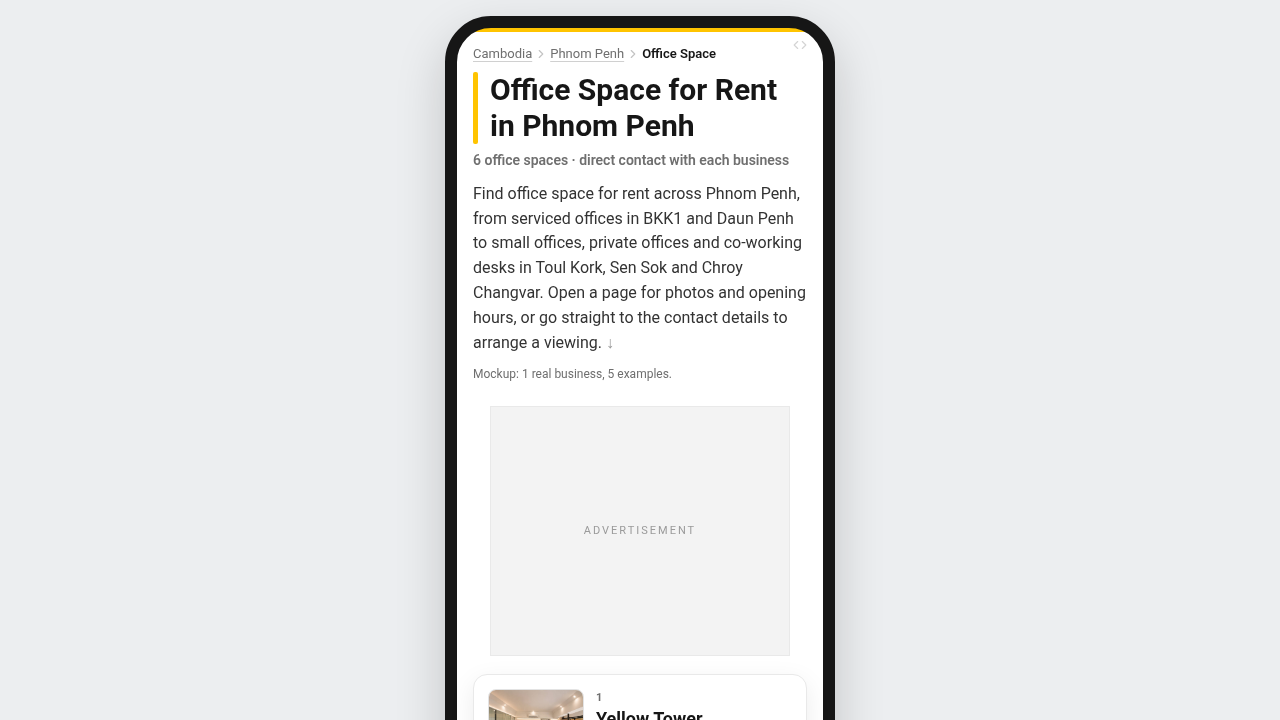
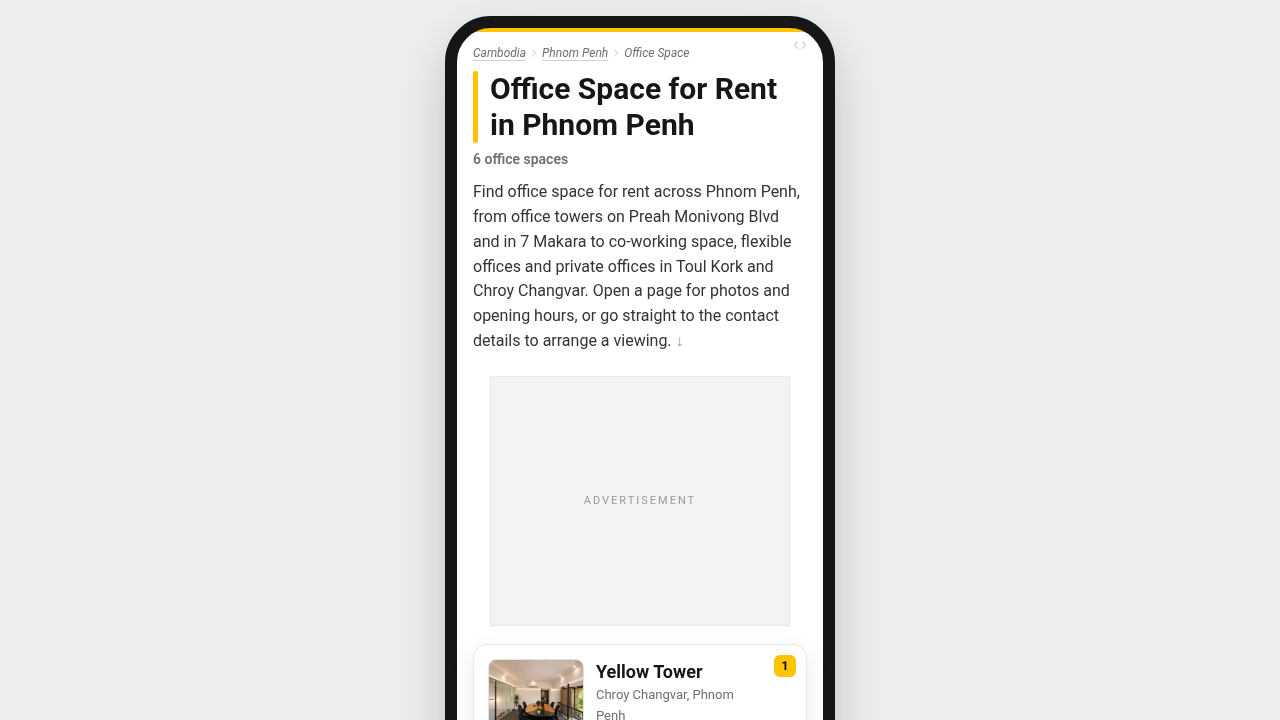
Publish mockups 2026-10-07 00:43 WITA

diff --git a/phnom-penh-office-rental-vertical-page.html b/phnom-penh-office-rental-vertical-page.html
@@ -5,7 +5,7 @@
 <meta charset="utf-8">
 <meta name="viewport" content="width=device-width, initial-scale=1">
 <title>Phnom Penh Office Space &amp; Serviced Offices for Rent | contact.page</title>
-<meta name="description" content="Compare office space for rent in Phnom Penh: serviced offices, private offices and co-working in BKK1, Daun Penh, Toul Kork and Chroy Changvar, with direct contact details for each business.">
+<meta name="description" content="Compare office space for rent in Phnom Penh: office towers, flexible and semi-serviced offices and co-working in 7 Makara, Toul Kork, Chroy Changvar and on Preah Monivong Blvd.">
 <script type="application/ld+json">
 {"@context":"https://schema.org","@graph":[
 {"@type":"BreadcrumbList","itemListElement":[
@@ -14,11 +14,11 @@
  {"@type":"ListItem","position":3,"name":"Office Space"}]},
 {"@type":"ItemList","name":"Office Space for Rent in Phnom Penh","numberOfItems":6,"itemListOrder":"https://schema.org/ItemListOrderDescending","itemListElement":[
  {"@type":"ListItem","position":1,"name":"Yellow Tower","url":"https://kh34363.contact.page/"},
- {"@type":"ListItem","position":2,"name":"Example Riverside Offices"},
- {"@type":"ListItem","position":3,"name":"Example BKK1 Business Suites"},
- {"@type":"ListItem","position":4,"name":"Example Toul Kork Co-working"},
- {"@type":"ListItem","position":5,"name":"Example Sen Sok Office Park"},
- {"@type":"ListItem","position":6,"name":"Example Peninsula Studios"}]}
+ {"@type":"ListItem","position":2,"name":"The Helix Office","url":"https://kh81111-the-helix-office.contact.page/"},
+ {"@type":"ListItem","position":3,"name":"City Tower","url":"https://kh62909.contact.page/"},
+ {"@type":"ListItem","position":4,"name":"Emerald HUB","url":"https://kh78259-emerald-hub.contact.page/"},
+ {"@type":"ListItem","position":5,"name":"Phnom Penh Center","url":"https://kh18308.contact.page/"},
+ {"@type":"ListItem","position":6,"name":"Regus Business Centre (Cambodia) Co., Ltd.","url":"https://kh50588.contact.page/"}]}
 ]}
 </script>
 <style>
@@ -161,22 +161,24 @@ span.chip:hover{background:#f1f2f3}
 
 
 .vlede{color:#333;margin:10px 0 0}
-.crumbs{margin:16px 0 8px;font-size:13px;color:var(--grey)}
+.crumbs{margin:16px 0 8px;font-size:12px;font-style:italic;font-weight:400;color:var(--grey)}
 .crumbs ol{list-style:none;margin:0;padding:0;display:flex;flex-wrap:wrap;align-items:center;gap:2px}
 .crumbs li{display:inline-flex;align-items:center;gap:2px}
 .crumbs a{color:var(--grey);text-decoration:underline;text-decoration-color:#d0d0d0;text-underline-offset:3px}
 .crumbs a:hover{color:var(--ink)}
-.crumbs svg{color:#c4c4c4}
-.crumbs [aria-current]{color:var(--ink);font-weight:600}
+.crumbs svg{color:#c4c4c4;width:12px;height:12px}
+.crumbs [aria-current]{color:var(--grey);font-weight:400}
 .vsub{font-size:14px;color:var(--grey);margin:6px 0 0;font-weight:600}
 .vmeta{font-size:12px;color:var(--grey);margin:10px 0 0}
 .cards{list-style:none;margin:18px 0 0;padding:0;display:grid;gap:14px}
-.card{border:1px solid var(--line);border-radius:14px;padding:14px;background:#fff}
+.card{position:relative;border:1px solid var(--line);border-radius:14px;padding:14px;background:#fff}
 .card.first{box-shadow:0 8px 26px rgba(0,0,0,.08)}
 .card .top{display:grid;grid-template-columns:96px 1fr;gap:12px;align-items:start}
 .card .thumb{width:96px;aspect-ratio:4/3;object-fit:cover;border:1px solid #e3e3e3;border-radius:8px;display:block}
 .card .thumb.ph{padding:6px;font-size:10px;aspect-ratio:4/3}
-.card .rank{font-size:11px;color:var(--grey);text-transform:uppercase;letter-spacing:1.2px;font-weight:700;margin:0}
+.card .rankb{position:absolute;top:10px;right:10px;min-width:22px;height:22px;padding:0 6px;border-radius:6px;background:var(--yellow);color:var(--ink);font-size:12px;font-weight:800;line-height:22px;text-align:center}
+.card .top>div{padding-right:26px}
+.card .thumb.ph{display:flex;align-items:center;justify-content:center;color:#b9b9b9;padding:0}
 .card h2{font-size:18px;line-height:1.25;margin:2px 0 2px}
 .card h2 a{text-decoration:none}
 .card h2 a:hover{text-decoration:underline}
@@ -209,9 +211,8 @@ span.chip:hover{background:#f1f2f3}
 
 
 <div class="h1row"><div class="h1bar" aria-hidden="true"></div><h1>Office Space for Rent in Phnom Penh</h1></div>
-<p class="vsub">6 office spaces &middot; direct contact with each business</p>
-<p class="vlede">Find office space for rent across Phnom Penh, from serviced offices in BKK1 and Daun Penh to small offices, private offices and co-working desks in Toul Kork, Sen Sok and Chroy Changvar. Open a page for photos and opening hours, or go straight to the contact details to arrange a viewing. <span class="down" aria-hidden="true">↓</span></p>
-<p class="vmeta">Mockup: 1 real business, 5 examples.</p>
+<p class="vsub">6 office spaces</p>
+<p class="vlede">Find office space for rent across Phnom Penh, from office towers on Preah Monivong Blvd and in 7 Makara to co-working space, flexible offices and private offices in Toul Kork and Chroy Changvar. Open a page for photos and opening hours, or go straight to the contact details to arrange a viewing. <span class="down" aria-hidden="true">↓</span></p>
 
 
 <div class="ad"><div class="slot"><span>Advertisement</span></div></div>
@@ -219,10 +220,10 @@ span.chip:hover{background:#f1f2f3}
 
 <ol class="cards">
 <li class="card first">
+<span class="rankb" aria-label="Rank 1">1</span>
 <div class="top">
 <img class="thumb" src="assets/yellow-tower-photo-1.jpg" alt="Office Space">
 <div>
-<p class="rank">1</p>
 <h2><a href="yellow-tower-listing-page.html">Yellow Tower</a></h2>
 <p class="where">Chroy Changvar, Phnom Penh</p>
 </div>
@@ -235,42 +236,52 @@ span.chip:hover{background:#f1f2f3}
 </div>
 </li>
 
-<li class="card ex">
-<div class="top"><div class="thumb ph">Example photo</div><div>
-<p class="rank">2</p><h2>Example Riverside Offices</h2><p class="where">Daun Penh, Phnom Penh</p></div></div>
-<p class="why">Example entry: serviced office floors near the riverside, sample text only.</p>
-<div class="crow"><p class="masked">+855 •• ••• •••</p><span class="txtcta"><svg class="lockic" viewBox="0 0 24 24" width="16" height="16" fill="none" stroke="currentColor" stroke-width="2" stroke-linecap="round" stroke-linejoin="round" aria-hidden="true"><rect width="18" height="11" x="3" y="11" rx="2" ry="2" /> <path d="M7 11V7a5 5 0 0 1 10 0v4" /></svg>View contact details</span></div>
+<li class="card">
+<span class="rankb" aria-label="Rank 2">2</span>
+<div class="top"><div class="thumb ph" role="img" aria-label="No photo in the mockup"><svg viewBox="0 0 24 24" width="28" height="28" fill="none" stroke="currentColor" stroke-width="2" stroke-linecap="round" stroke-linejoin="round" aria-hidden="true"><path d="M10 12h4" /> <path d="M10 8h4" /> <path d="M14 21v-3a2 2 0 0 0-4 0v3" /> <path d="M6 10H4a2 2 0 0 0-2 2v7a2 2 0 0 0 2 2h16a2 2 0 0 0 2-2V9a2 2 0 0 0-2-2h-2" /> <path d="M6 21V5a2 2 0 0 1 2-2h8a2 2 0 0 1 2 2v16" /></svg></div><div>
+<h2><a href="https://kh81111-the-helix-office.contact.page/">The Helix Office</a></h2><p class="where">Preah Monivong Blvd, Khan 7 Makara</p></div></div>
+<p class="why">Office space with co-working, meeting rooms and semi-serviced, flexible offices on Preah Monivong Blvd.</p>
+<div class="chiprow"><span class="chip">Co-working space</span><span class="chip">Flexible office space</span><span class="chip">Meeting rooms</span><span class="chip">Semi-serviced office</span></div>
+<div class="crow"><p class="masked">+855 •• ••• •••</p><a class="btn sm" href="https://kh81111-the-helix-office.contact.page/contact-details?from=vertical"><svg class="lockic" viewBox="0 0 24 24" width="16" height="16" fill="none" stroke="currentColor" stroke-width="2" stroke-linecap="round" stroke-linejoin="round" aria-hidden="true"><rect width="18" height="11" x="3" y="11" rx="2" ry="2" /> <path d="M7 11V7a5 5 0 0 1 10 0v4" /></svg>View contact details</a></div>
 </li>
 
-<li class="card ex">
-<div class="top"><div class="thumb ph">Example photo</div><div>
-<p class="rank">3</p><h2>Example BKK1 Business Suites</h2><p class="where">Boeung Keng Kang, Phnom Penh</p></div></div>
-<p class="why">Example entry: small furnished suites for teams of two to ten, sample text only.</p>
-<div class="crow"><p class="masked">+855 •• ••• •••</p><span class="txtcta"><svg class="lockic" viewBox="0 0 24 24" width="16" height="16" fill="none" stroke="currentColor" stroke-width="2" stroke-linecap="round" stroke-linejoin="round" aria-hidden="true"><rect width="18" height="11" x="3" y="11" rx="2" ry="2" /> <path d="M7 11V7a5 5 0 0 1 10 0v4" /></svg>View contact details</span></div>
+<li class="card">
+<span class="rankb" aria-label="Rank 3">3</span>
+<div class="top"><div class="thumb ph" role="img" aria-label="No photo in the mockup"><svg viewBox="0 0 24 24" width="28" height="28" fill="none" stroke="currentColor" stroke-width="2" stroke-linecap="round" stroke-linejoin="round" aria-hidden="true"><path d="M10 12h4" /> <path d="M10 8h4" /> <path d="M14 21v-3a2 2 0 0 0-4 0v3" /> <path d="M6 10H4a2 2 0 0 0-2 2v7a2 2 0 0 0 2 2h16a2 2 0 0 0 2-2V9a2 2 0 0 0-2-2h-2" /> <path d="M6 21V5a2 2 0 0 1 2-2h8a2 2 0 0 1 2 2v16" /></svg></div><div>
+<h2><a href="https://kh62909.contact.page/">City Tower</a></h2><p class="where">Mao Tse Toung Blvd, Khan Toul Kork</p></div></div>
+<p class="why">Purpose-built office building with 10 floors of office space and two basements for car and motorbike parking.</p>
+<div class="chiprow"><span class="chip">Office space</span><span class="chip">Business center</span></div>
+<div class="crow"><p class="masked">+855 •• ••• •••</p><a class="btn sm" href="https://kh62909.contact.page/contact-details?from=vertical"><svg class="lockic" viewBox="0 0 24 24" width="16" height="16" fill="none" stroke="currentColor" stroke-width="2" stroke-linecap="round" stroke-linejoin="round" aria-hidden="true"><rect width="18" height="11" x="3" y="11" rx="2" ry="2" /> <path d="M7 11V7a5 5 0 0 1 10 0v4" /></svg>View contact details</a></div>
 </li>
 
 
 <li class="ad" style="list-style:none"><div class="slot"><span>Advertisement</span></div></li>
 
-<li class="card ex">
-<div class="top"><div class="thumb ph">Example photo</div><div>
-<p class="rank">4</p><h2>Example Toul Kork Co-working</h2><p class="where">Toul Kork, Phnom Penh</p></div></div>
-<p class="why">Example entry: hot desks and meeting rooms by the day or month, sample text only.</p>
-<div class="crow"><p class="masked">+855 •• ••• •••</p><span class="txtcta"><svg class="lockic" viewBox="0 0 24 24" width="16" height="16" fill="none" stroke="currentColor" stroke-width="2" stroke-linecap="round" stroke-linejoin="round" aria-hidden="true"><rect width="18" height="11" x="3" y="11" rx="2" ry="2" /> <path d="M7 11V7a5 5 0 0 1 10 0v4" /></svg>View contact details</span></div>
+<li class="card">
+<span class="rankb" aria-label="Rank 4">4</span>
+<div class="top"><div class="thumb ph" role="img" aria-label="No photo in the mockup"><svg viewBox="0 0 24 24" width="28" height="28" fill="none" stroke="currentColor" stroke-width="2" stroke-linecap="round" stroke-linejoin="round" aria-hidden="true"><path d="M10 12h4" /> <path d="M10 8h4" /> <path d="M14 21v-3a2 2 0 0 0-4 0v3" /> <path d="M6 10H4a2 2 0 0 0-2 2v7a2 2 0 0 0 2 2h16a2 2 0 0 0 2-2V9a2 2 0 0 0-2-2h-2" /> <path d="M6 21V5a2 2 0 0 1 2-2h8a2 2 0 0 1 2 2v16" /></svg></div><div>
+<h2><a href="https://kh78259-emerald-hub.contact.page/">Emerald HUB</a></h2><p class="where">PPIU Building, St. 169, Khan 7 Makara</p></div></div>
+<p class="why">Co-working and office space on the 11th floor of the PPIU Building, for startups and small and growing businesses.</p>
+<div class="chiprow"><span class="chip">Co-working</span><span class="chip">Office space</span></div>
+<div class="crow"><p class="masked">+855 •• ••• •••</p><a class="btn sm" href="https://kh78259-emerald-hub.contact.page/contact-details?from=vertical"><svg class="lockic" viewBox="0 0 24 24" width="16" height="16" fill="none" stroke="currentColor" stroke-width="2" stroke-linecap="round" stroke-linejoin="round" aria-hidden="true"><rect width="18" height="11" x="3" y="11" rx="2" ry="2" /> <path d="M7 11V7a5 5 0 0 1 10 0v4" /></svg>View contact details</a></div>
 </li>
 
-<li class="card ex">
-<div class="top"><div class="thumb ph">Example photo</div><div>
-<p class="rank">5</p><h2>Example Sen Sok Office Park</h2><p class="where">Sen Sok, Phnom Penh</p></div></div>
-<p class="why">Example entry: low-rise offices with their own parking, sample text only.</p>
-<div class="crow"><p class="masked">+855 •• ••• •••</p><span class="txtcta"><svg class="lockic" viewBox="0 0 24 24" width="16" height="16" fill="none" stroke="currentColor" stroke-width="2" stroke-linecap="round" stroke-linejoin="round" aria-hidden="true"><rect width="18" height="11" x="3" y="11" rx="2" ry="2" /> <path d="M7 11V7a5 5 0 0 1 10 0v4" /></svg>View contact details</span></div>
+<li class="card">
+<span class="rankb" aria-label="Rank 5">5</span>
+<div class="top"><div class="thumb ph" role="img" aria-label="No photo in the mockup"><svg viewBox="0 0 24 24" width="28" height="28" fill="none" stroke="currentColor" stroke-width="2" stroke-linecap="round" stroke-linejoin="round" aria-hidden="true"><path d="M10 12h4" /> <path d="M10 8h4" /> <path d="M14 21v-3a2 2 0 0 0-4 0v3" /> <path d="M6 10H4a2 2 0 0 0-2 2v7a2 2 0 0 0 2 2h16a2 2 0 0 0 2-2V9a2 2 0 0 0-2-2h-2" /> <path d="M6 21V5a2 2 0 0 1 2-2h8a2 2 0 0 1 2 2v16" /></svg></div><div>
+<h2><a href="https://kh18308.contact.page/">Phnom Penh Center</a></h2><p class="where">Samdech Sothearos Blvd, corner of Sihanouk (St. 274)</p></div></div>
+<p class="why">Office building with business centres and office rental, open Monday to Saturday.</p>
+<div class="chiprow"><span class="chip">Business centres</span><span class="chip">Office rental</span></div>
+<div class="crow"><p class="masked">+855 •• ••• •••</p><a class="btn sm" href="https://kh18308.contact.page/contact-details?from=vertical"><svg class="lockic" viewBox="0 0 24 24" width="16" height="16" fill="none" stroke="currentColor" stroke-width="2" stroke-linecap="round" stroke-linejoin="round" aria-hidden="true"><rect width="18" height="11" x="3" y="11" rx="2" ry="2" /> <path d="M7 11V7a5 5 0 0 1 10 0v4" /></svg>View contact details</a></div>
 </li>
 
-<li class="card ex">
-<div class="top"><div class="thumb ph">Example photo</div><div>
-<p class="rank">6</p><h2>Example Peninsula Studios</h2><p class="where">Chroy Changvar, Phnom Penh</p></div></div>
-<p class="why">Example entry: studio offices across the river, sample text only.</p>
-<div class="crow"><p class="masked">+855 •• ••• •••</p><span class="txtcta"><svg class="lockic" viewBox="0 0 24 24" width="16" height="16" fill="none" stroke="currentColor" stroke-width="2" stroke-linecap="round" stroke-linejoin="round" aria-hidden="true"><rect width="18" height="11" x="3" y="11" rx="2" ry="2" /> <path d="M7 11V7a5 5 0 0 1 10 0v4" /></svg>View contact details</span></div>
+<li class="card">
+<span class="rankb" aria-label="Rank 6">6</span>
+<div class="top"><div class="thumb ph" role="img" aria-label="No photo in the mockup"><svg viewBox="0 0 24 24" width="28" height="28" fill="none" stroke="currentColor" stroke-width="2" stroke-linecap="round" stroke-linejoin="round" aria-hidden="true"><path d="M10 12h4" /> <path d="M10 8h4" /> <path d="M14 21v-3a2 2 0 0 0-4 0v3" /> <path d="M6 10H4a2 2 0 0 0-2 2v7a2 2 0 0 0 2 2h16a2 2 0 0 0 2-2V9a2 2 0 0 0-2-2h-2" /> <path d="M6 21V5a2 2 0 0 1 2-2h8a2 2 0 0 1 2 2v16" /></svg></div><div>
+<h2><a href="https://kh50588.contact.page/">Regus Business Centre (Cambodia) Co., Ltd.</a></h2><p class="where">Canadia Tower, 18th floor, Preah Monivong Blvd</p></div></div>
+<p class="why">Office rental on the 18th floor of Canadia Tower, at the corner of Preah Monivong Blvd and Ang Duong (St. 110).</p>
+<div class="chiprow"><span class="chip">Office rental</span></div>
+<div class="crow"><p class="masked">+855 •• ••• •••</p><a class="btn sm" href="https://kh50588.contact.page/contact-details?from=vertical"><svg class="lockic" viewBox="0 0 24 24" width="16" height="16" fill="none" stroke="currentColor" stroke-width="2" stroke-linecap="round" stroke-linejoin="round" aria-hidden="true"><rect width="18" height="11" x="3" y="11" rx="2" ry="2" /> <path d="M7 11V7a5 5 0 0 1 10 0v4" /></svg>View contact details</a></div>
 </li>
 </ol>
 
@@ -289,7 +300,7 @@ span.chip:hover{background:#f1f2f3}
 <div class="k">Activity</div><div class="name">Office space rental agency</div>
 <div class="code">gcid:office_space_rental_agency</div></div>
 <p class="chain">Standard mockup set (Kim 2026-10-06): <b>1 vertical</b> &rarr; <a href="yellow-tower-listing-page.html">2 listing</a> &rarr; <a href="yellow-tower-security-page.html">3 security check</a> &rarr; <a href="yellow-tower-contact-details-page.html">4 contact details</a></p>
-<p class="meta">sample, not production · Phnom Penh office rental vertical page · version 2 · 2026-10-07 · older versions in archive/ · .page Mockups</p>
+<p class="meta">sample, not production · Phnom Penh office rental vertical page · version 4 · 2026-10-07 · older versions in archive/ · .page Mockups</p>
 </footer>
 </div>
 </body>
